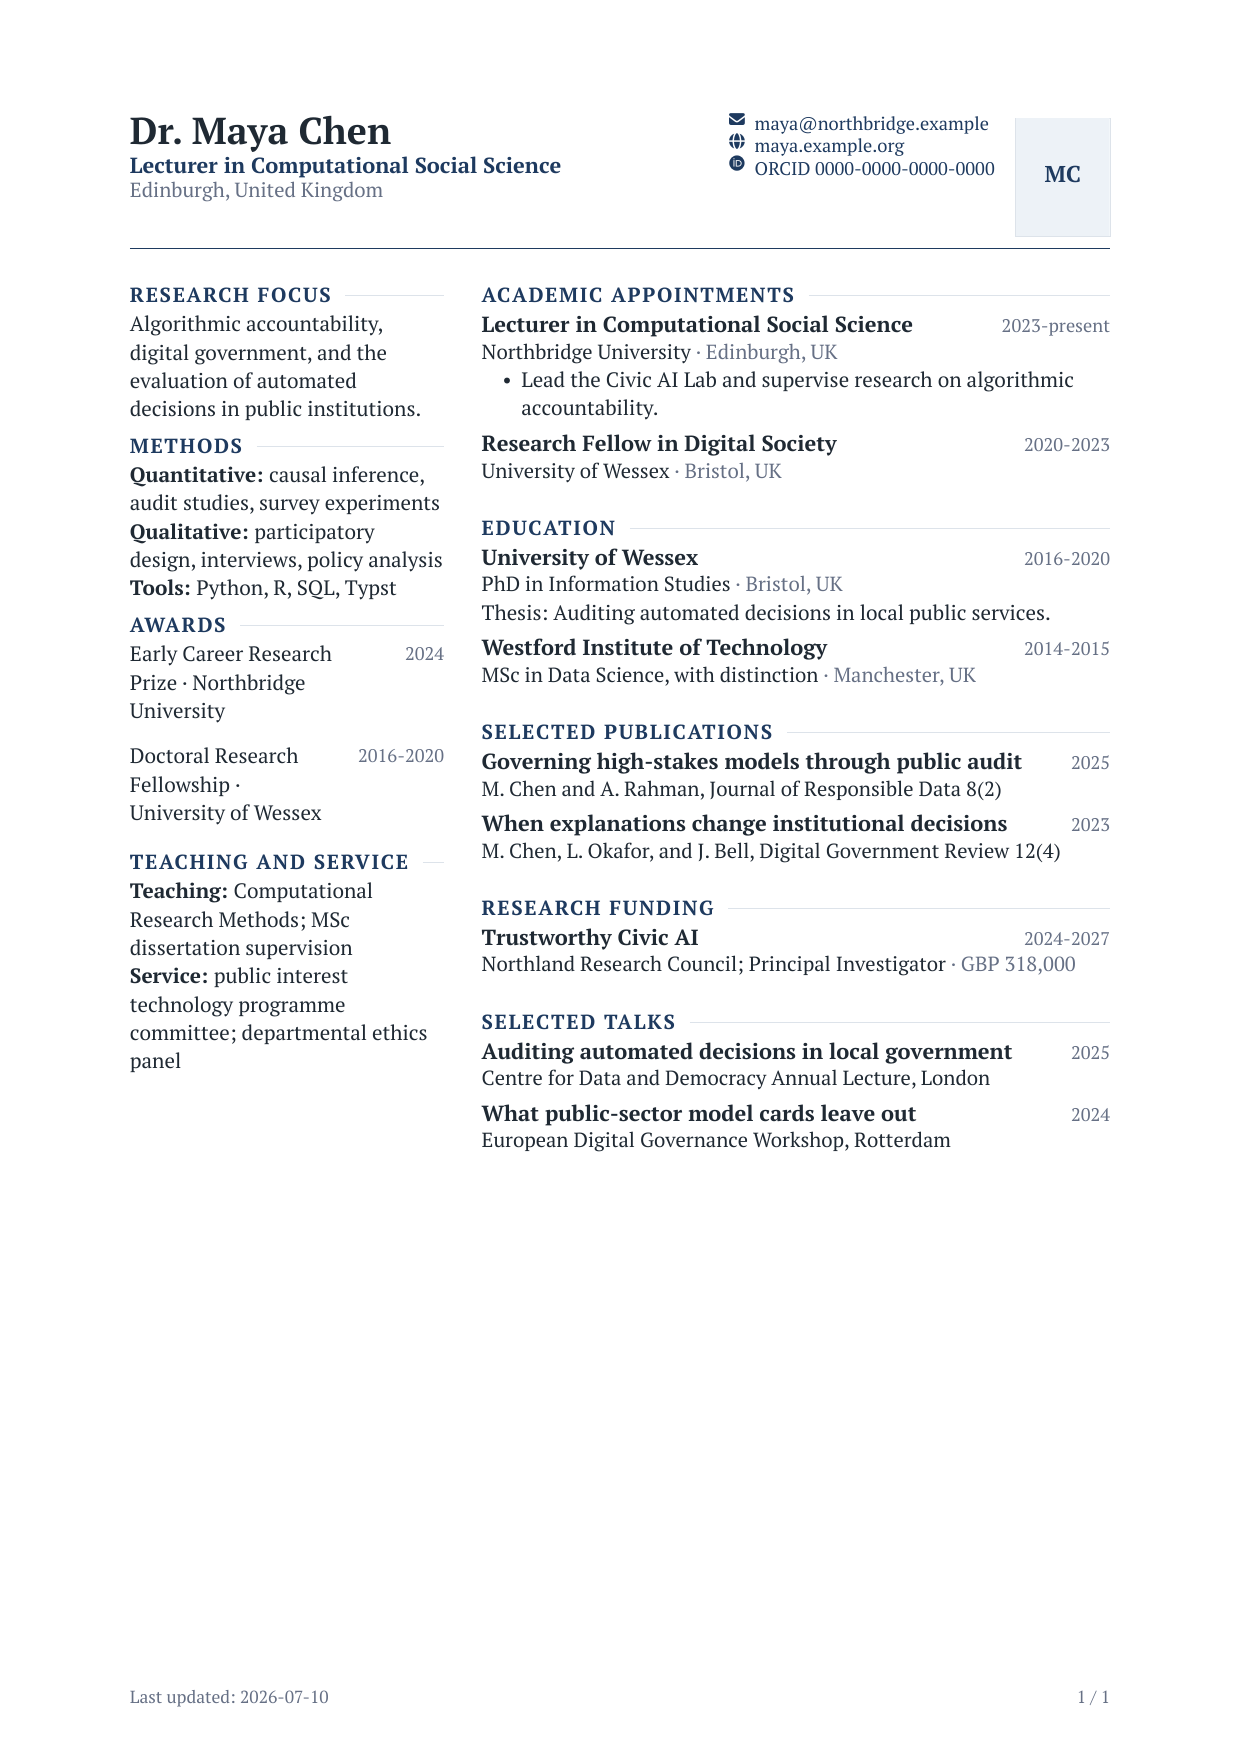
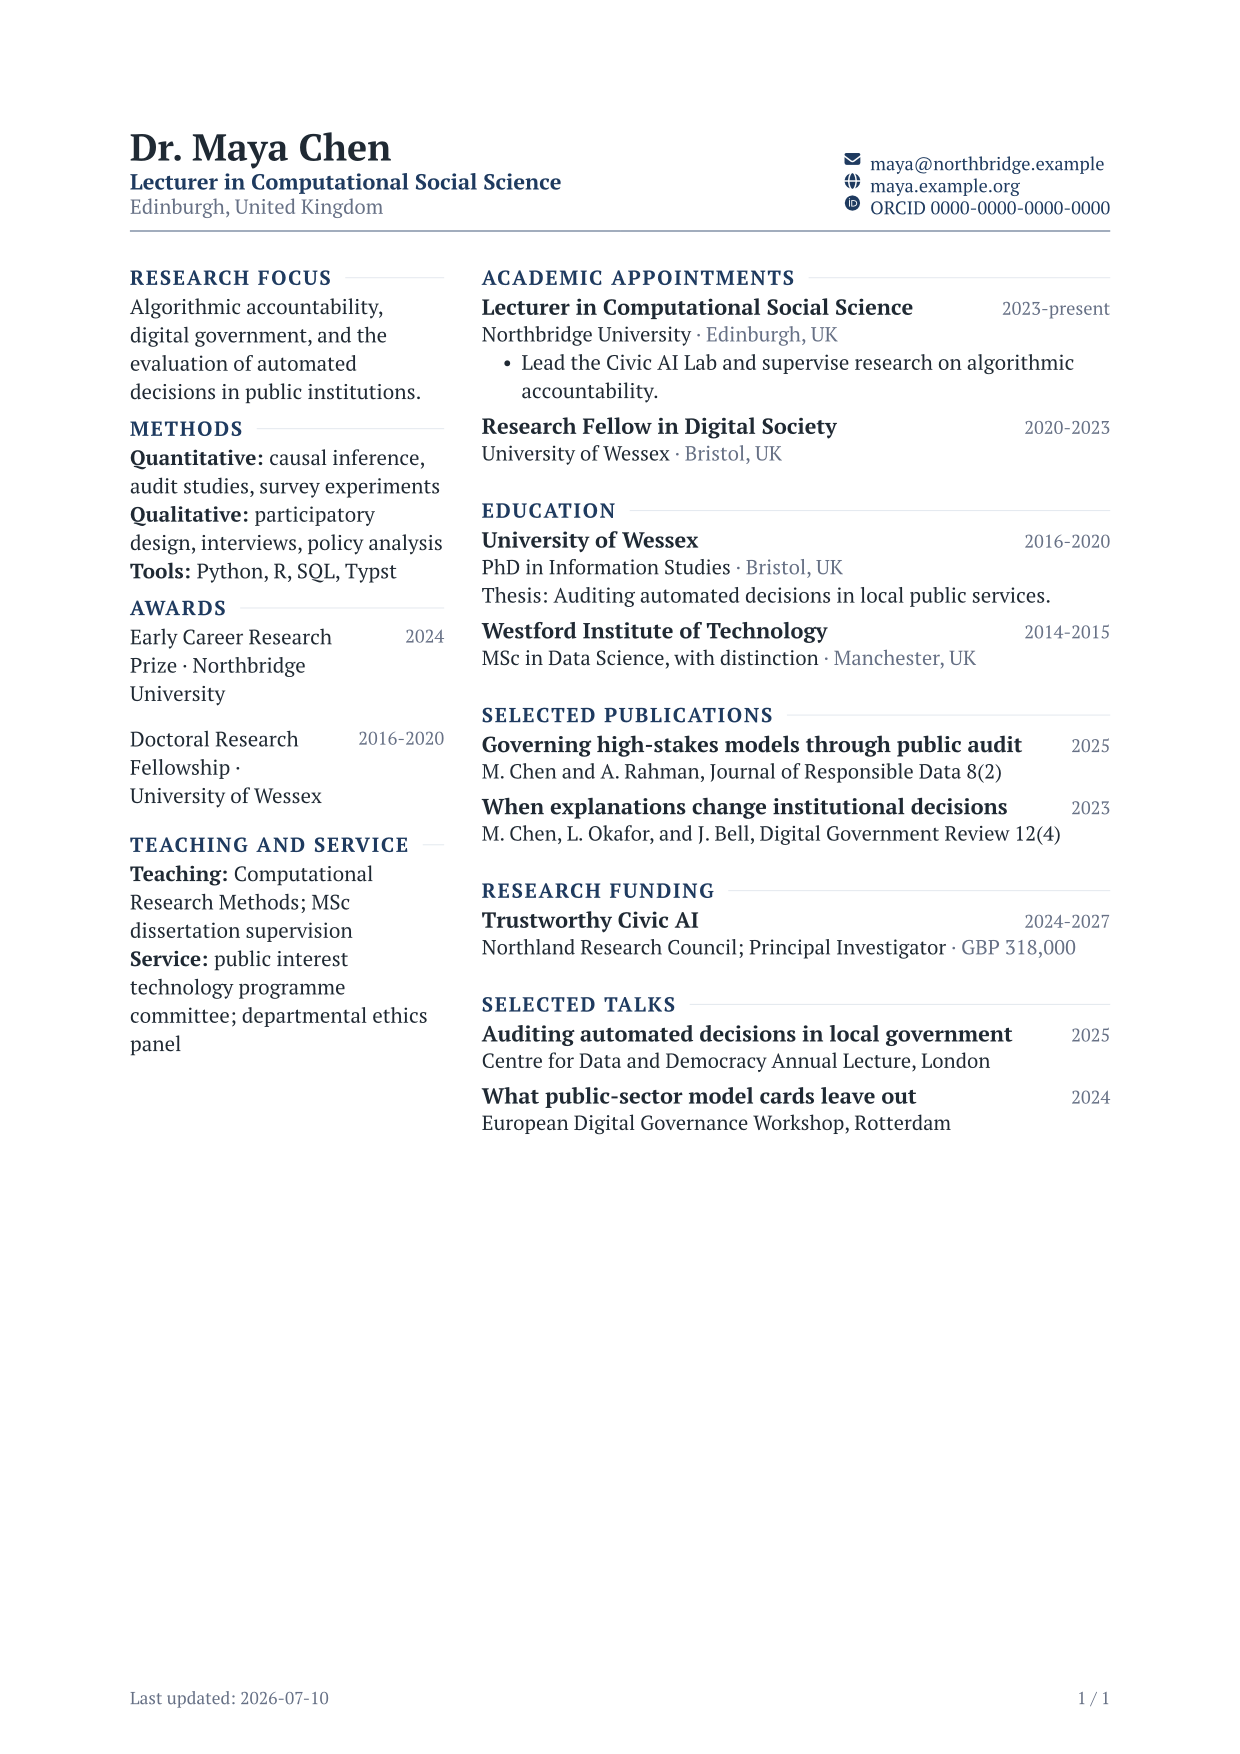
docs: separate optional photo preview

diff --git a/README.md b/README.md
@@ -252,6 +252,8 @@ Pass a ready-to-render image as `profile.photo`. The default 16 x 20 mm portrait
 uses a formal 4:5 crop, square corners, and the same hairline border as the rest
 of the document:
 
+[![Academic CV with an optional profile photo](screenshots/cv-photo-harmonious.png)](screenshots/cv-photo-harmonious.png)
+
 ```typst
 #let profile = (
   name: [Dr. Maya Chen],
